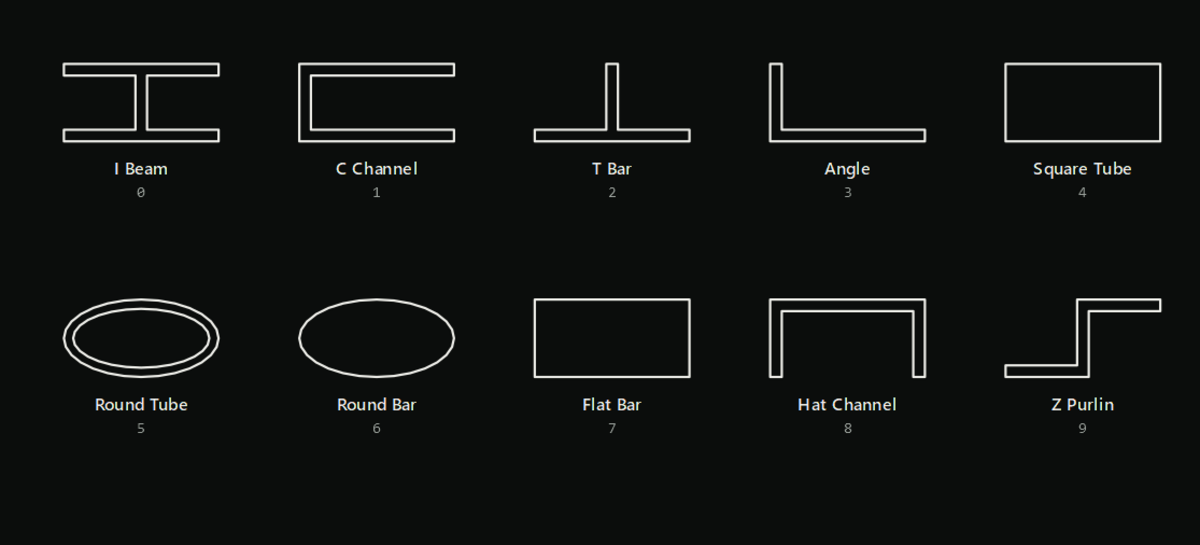
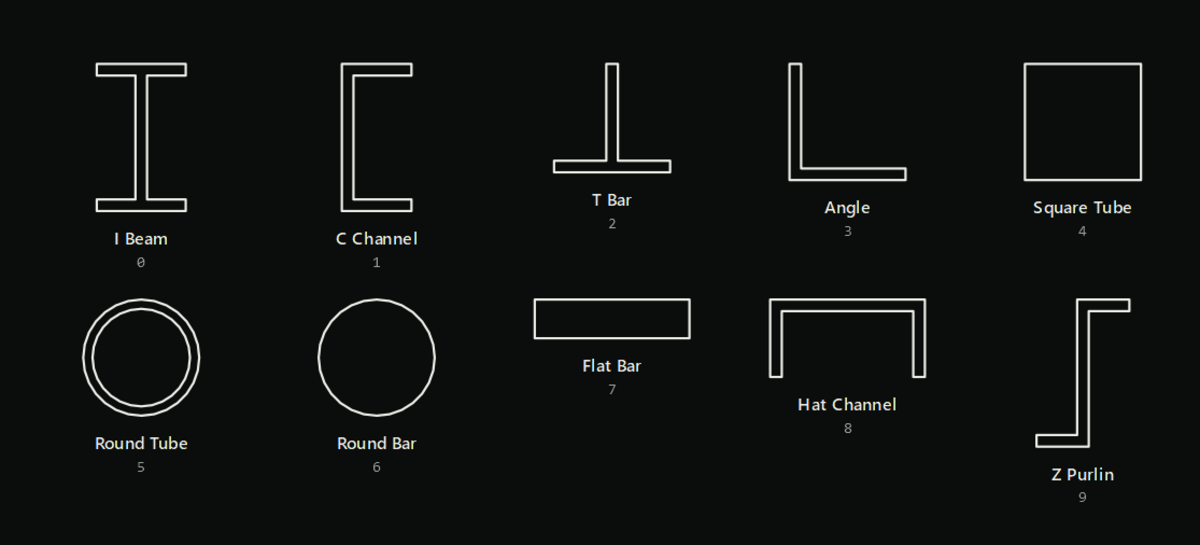
Figure 3: real section proportions; Figure 4: Jordan's traced chart
Jordan, 2026-08-16: 'the I-Beams look weird, the horizontal parts are too long,
most I beams don't look like this. Same thing as the Angle - both sides should
be equal.'

A single W:H for every profile was wrong. Real sections have characteristic
proportions - a W-section is DEEPER than it is wide (W12x26 is 12.2 x 6.5), an
angle is usually EQUAL-LEG (L4x4), a flat bar is wide and thin. Drawing them all
at 2:1 made the I-beam look like a girder nobody rolls and gave the angle
unequal legs for no reason. Each profile now carries its own representative
proportions.

Figure 4 now shows Jordan's vectorised chart rather than my grammar-derived
profiles. His are the real silhouettes; mine were approximations read off a
printed picture, five of them explicitly marked unverified. 130 distinct
profiles carrying roughly 200 codes, because several codes share a silhouette
at different sizes - the catalog pattern in miniature.

chart_outline.svg renders his traced paths in the blueprint convention with no
index numbers, for use as a figure.

Claude-Session: https://claude.ai/code/session_01DKTsLwfwu4BoRFqxwXR7AR

diff --git a/assetbash_handbook_built.html b/assetbash_handbook_built.html
@@ -517,7 +517,7 @@ system built on scaling gets this wrong; a lookup table cannot.</p>
 <figure>
 <span class="figno">Figure 4</span>
[1 lines of base64/hex data omitted]
-<figcaption><b>Figure 4 — Twenty-six moulding profiles from ten composable elements.</b> Every profile on the WM Standard Moulding chart is a stack of fillet, bead, ovolo, cove, scotia, cyma and chamfer — which is not a modelling trick but how they are milled, one shaper knife per element. Elements take a <em>box</em> rather than a radius, so the catalog dimension becomes a mechanical check instead of a claim. Marked <span style='color:#8A5A16'>~</span> are silhouettes read from the printed chart and not yet verified against a profile drawing.</figcaption>
+<figcaption><b>Figure 4 — The WM Standard Moulding chart, vectorised.</b> 130 distinct profiles carrying roughly 200 codes: several codes share a silhouette at different sizes, which is the catalog pattern in miniature — shape and dimensions are separate columns. Every one of these is a stack from a small classical vocabulary (fillet, bead, ovolo, cove, scotia, cyma, quirk, chamfer), which is not a modelling trick but how they are milled: one shaper knife per element. Traced by Jordan from the Wholesale Millwork chart; the layout is preserved so position identifies the section.</figcaption>
 </figure>
 <div class="card">
 <h4>2 · Grammar — composable elements instead of enumerated shapes</h4>
@@ -590,37 +590,37 @@ correct only at exactly 1 × 1.</dd>
 <span class="figno">Figure 3</span>
 <div class="plate">
 <svg viewBox="0 0 714 324" style="max-width:720px;margin:0 auto"
-     font-family="ui-sans-serif,system-ui,sans-serif"><polygon points="38.00,84.00 38.00,77.10 80.55,77.10 80.55,44.90 38.00,44.90 38.00,38.00 130.00,38.00 130.00,44.90 87.45,44.90 87.45,77.10 130.00,77.10 130.00,84.00" fill="none" stroke="#EDEDE8" stroke-width="1.4" stroke-linejoin="round"/>
-<text x="84.0" y="104.0" font-size="10.5" fill="#EDEDE8" text-anchor="middle" font-weight="700">I Beam</text>
-<text x="84.0" y="117.0" font-size="9" fill="#9AA09B" text-anchor="middle" font-family="ui-monospace,Consolas,monospace">0</text>
-<polygon points="178.00,84.00 178.00,38.00 270.00,38.00 270.00,44.90 184.90,44.90 184.90,77.10 270.00,77.10 270.00,84.00" fill="none" stroke="#EDEDE8" stroke-width="1.4" stroke-linejoin="round"/>
-<text x="224.0" y="104.0" font-size="10.5" fill="#EDEDE8" text-anchor="middle" font-weight="700">C Channel</text>
-<text x="224.0" y="117.0" font-size="9" fill="#9AA09B" text-anchor="middle" font-family="ui-monospace,Consolas,monospace">1</text>
-<polygon points="318.00,84.00 318.00,77.10 360.55,77.10 360.55,38.00 367.45,38.00 367.45,77.10 410.00,77.10 410.00,84.00" fill="none" stroke="#EDEDE8" stroke-width="1.4" stroke-linejoin="round"/>
-<text x="364.0" y="104.0" font-size="10.5" fill="#EDEDE8" text-anchor="middle" font-weight="700">T Bar</text>
-<text x="364.0" y="117.0" font-size="9" fill="#9AA09B" text-anchor="middle" font-family="ui-monospace,Consolas,monospace">2</text>
-<polygon points="458.00,84.00 458.00,38.00 464.90,38.00 464.90,77.10 550.00,77.10 550.00,84.00" fill="none" stroke="#EDEDE8" stroke-width="1.4" stroke-linejoin="round"/>
-<text x="504.0" y="104.0" font-size="10.5" fill="#EDEDE8" text-anchor="middle" font-weight="700">Angle</text>
-<text x="504.0" y="117.0" font-size="9" fill="#9AA09B" text-anchor="middle" font-family="ui-monospace,Consolas,monospace">3</text>
-<polygon points="598.00,84.00 598.00,38.00 690.00,38.00 690.00,84.00" fill="none" stroke="#EDEDE8" stroke-width="1.4" stroke-linejoin="round"/>
-<text x="644.0" y="104.0" font-size="10.5" fill="#EDEDE8" text-anchor="middle" font-weight="700">Square Tube</text>
-<text x="644.0" y="117.0" font-size="9" fill="#9AA09B" text-anchor="middle" font-family="ui-monospace,Consolas,monospace">4</text>
-<polygon points="107.00,201.00 106.42,195.88 104.72,191.02 101.98,186.66 98.34,183.02 93.98,180.28 89.12,178.58 84.00,178.00 78.88,178.58 74.02,180.28 69.66,183.02 66.02,186.66 63.28,191.02 61.58,195.88 61.00,201.00 61.58,206.12 63.28,210.98 66.02,215.34 69.66,218.98 74.02,221.72 78.88,223.42 84.00,224.00 89.12,223.42 93.98,221.72 98.34,218.98 101.98,215.34 104.72,210.98 106.42,206.12" fill="none" stroke="#EDEDE8" stroke-width="1.4" stroke-linejoin="round"/>
-<polygon points="101.48,201.00 101.04,204.89 99.75,208.58 97.67,211.90 94.90,214.67 91.58,216.75 87.89,218.04 84.00,218.48 80.11,218.04 76.42,216.75 73.10,214.67 70.33,211.90 68.25,208.58 66.96,204.89 66.52,201.00 66.96,197.11 68.25,193.42 70.33,190.10 73.10,187.33 76.42,185.25 80.11,183.96 84.00,183.52 87.89,183.96 91.58,185.25 94.90,187.33 97.67,190.10 99.75,193.42 101.04,197.11" fill="none" stroke="#EDEDE8" stroke-width="1.4" stroke-linejoin="round"/>
-<text x="84.0" y="244.0" font-size="10.5" fill="#EDEDE8" text-anchor="middle" font-weight="700">Round Tube</text>
-<text x="84.0" y="257.0" font-size="9" fill="#9AA09B" text-anchor="middle" font-family="ui-monospace,Consolas,monospace">5</text>
-<polygon points="247.00,201.00 246.42,195.88 244.72,191.02 241.98,186.66 238.34,183.02 233.98,180.28 229.12,178.58 224.00,178.00 218.88,178.58 214.02,180.28 209.66,183.02 206.02,186.66 203.28,191.02 201.58,195.88 201.00,201.00 201.58,206.12 203.28,210.98 206.02,215.34 209.66,218.98 214.02,221.72 218.88,223.42 224.00,224.00 229.12,223.42 233.98,221.72 238.34,218.98 241.98,215.34 244.72,210.98 246.42,206.12" fill="none" stroke="#EDEDE8" stroke-width="1.4" stroke-linejoin="round"/>
-<text x="224.0" y="244.0" font-size="10.5" fill="#EDEDE8" text-anchor="middle" font-weight="700">Round Bar</text>
-<text x="224.0" y="257.0" font-size="9" fill="#9AA09B" text-anchor="middle" font-family="ui-monospace,Consolas,monospace">6</text>
-<polygon points="318.00,224.00 318.00,178.00 410.00,178.00 410.00,224.00" fill="none" stroke="#EDEDE8" stroke-width="1.4" stroke-linejoin="round"/>
-<text x="364.0" y="244.0" font-size="10.5" fill="#EDEDE8" text-anchor="middle" font-weight="700">Flat Bar</text>
-<text x="364.0" y="257.0" font-size="9" fill="#9AA09B" text-anchor="middle" font-family="ui-monospace,Consolas,monospace">7</text>
+     font-family="ui-sans-serif,system-ui,sans-serif"><polygon points="57.55,125.40 57.55,118.50 80.55,118.50 80.55,44.90 57.55,44.90 57.55,38.00 110.45,38.00 110.45,44.90 87.45,44.90 87.45,118.50 110.45,118.50 110.45,125.40" fill="none" stroke="#EDEDE8" stroke-width="1.4" stroke-linejoin="round"/>
+<text x="84.0" y="145.4" font-size="10.5" fill="#EDEDE8" text-anchor="middle" font-weight="700">I Beam</text>
+<text x="84.0" y="158.4" font-size="9" fill="#9AA09B" text-anchor="middle" font-family="ui-monospace,Consolas,monospace">0</text>
+<polygon points="203.30,125.40 203.30,38.00 244.70,38.00 244.70,44.90 210.20,44.90 210.20,118.50 244.70,118.50 244.70,125.40" fill="none" stroke="#EDEDE8" stroke-width="1.4" stroke-linejoin="round"/>
+<text x="224.0" y="145.4" font-size="10.5" fill="#EDEDE8" text-anchor="middle" font-weight="700">C Channel</text>
+<text x="224.0" y="158.4" font-size="9" fill="#9AA09B" text-anchor="middle" font-family="ui-monospace,Consolas,monospace">1</text>
+<polygon points="329.50,102.40 329.50,95.50 360.55,95.50 360.55,38.00 367.45,38.00 367.45,95.50 398.50,95.50 398.50,102.40" fill="none" stroke="#EDEDE8" stroke-width="1.4" stroke-linejoin="round"/>
+<text x="364.0" y="122.4" font-size="10.5" fill="#EDEDE8" text-anchor="middle" font-weight="700">T Bar</text>
+<text x="364.0" y="135.4" font-size="9" fill="#9AA09B" text-anchor="middle" font-family="ui-monospace,Consolas,monospace">2</text>
+<polygon points="469.50,107.00 469.50,38.00 476.40,38.00 476.40,100.10 538.50,100.10 538.50,107.00" fill="none" stroke="#EDEDE8" stroke-width="1.4" stroke-linejoin="round"/>
+<text x="504.0" y="127.0" font-size="10.5" fill="#EDEDE8" text-anchor="middle" font-weight="700">Angle</text>
+<text x="504.0" y="140.0" font-size="9" fill="#9AA09B" text-anchor="middle" font-family="ui-monospace,Consolas,monospace">3</text>
+<polygon points="609.50,107.00 609.50,38.00 678.50,38.00 678.50,107.00" fill="none" stroke="#EDEDE8" stroke-width="1.4" stroke-linejoin="round"/>
+<text x="644.0" y="127.0" font-size="10.5" fill="#EDEDE8" text-anchor="middle" font-weight="700">Square Tube</text>
+<text x="644.0" y="140.0" font-size="9" fill="#9AA09B" text-anchor="middle" font-family="ui-monospace,Consolas,monospace">4</text>
+<polygon points="118.50,212.50 117.64,204.82 115.08,197.53 110.97,190.99 105.51,185.53 98.97,181.42 91.68,178.86 84.00,178.00 76.32,178.86 69.03,181.42 62.49,185.53 57.03,190.99 52.92,197.53 50.36,204.82 49.50,212.50 50.36,220.18 52.92,227.47 57.03,234.01 62.49,239.47 69.03,243.58 76.32,246.14 84.00,247.00 91.68,246.14 98.97,243.58 105.51,239.47 110.97,234.01 115.08,227.47 117.64,220.18" fill="none" stroke="#EDEDE8" stroke-width="1.4" stroke-linejoin="round"/>
+<polygon points="112.98,212.50 112.25,218.95 110.11,225.07 106.66,230.57 102.07,235.16 96.57,238.61 90.45,240.75 84.00,241.48 77.55,240.75 71.43,238.61 65.93,235.16 61.34,230.57 57.89,225.07 55.75,218.95 55.02,212.50 55.75,206.05 57.89,199.93 61.34,194.43 65.93,189.84 71.43,186.39 77.55,184.25 84.00,183.52 90.45,184.25 96.57,186.39 102.07,189.84 106.66,194.43 110.11,199.93 112.25,206.05" fill="none" stroke="#EDEDE8" stroke-width="1.4" stroke-linejoin="round"/>
+<text x="84.0" y="267.0" font-size="10.5" fill="#EDEDE8" text-anchor="middle" font-weight="700">Round Tube</text>
+<text x="84.0" y="280.0" font-size="9" fill="#9AA09B" text-anchor="middle" font-family="ui-monospace,Consolas,monospace">5</text>
+<polygon points="258.50,212.50 257.64,204.82 255.08,197.53 250.97,190.99 245.51,185.53 238.97,181.42 231.68,178.86 224.00,178.00 216.32,178.86 209.03,181.42 202.49,185.53 197.03,190.99 192.92,197.53 190.36,204.82 189.50,212.50 190.36,220.18 192.92,227.47 197.03,234.01 202.49,239.47 209.03,243.58 216.32,246.14 224.00,247.00 231.68,246.14 238.97,243.58 245.51,239.47 250.97,234.01 255.08,227.47 257.64,220.18" fill="none" stroke="#EDEDE8" stroke-width="1.4" stroke-linejoin="round"/>
+<text x="224.0" y="267.0" font-size="10.5" fill="#EDEDE8" text-anchor="middle" font-weight="700">Round Bar</text>
+<text x="224.0" y="280.0" font-size="9" fill="#9AA09B" text-anchor="middle" font-family="ui-monospace,Consolas,monospace">6</text>
+<polygon points="318.00,201.00 318.00,178.00 410.00,178.00 410.00,201.00" fill="none" stroke="#EDEDE8" stroke-width="1.4" stroke-linejoin="round"/>
+<text x="364.0" y="221.0" font-size="10.5" fill="#EDEDE8" text-anchor="middle" font-weight="700">Flat Bar</text>
+<text x="364.0" y="234.0" font-size="9" fill="#9AA09B" text-anchor="middle" font-family="ui-monospace,Consolas,monospace">7</text>
 <polygon points="458.00,224.00 458.00,178.00 550.00,178.00 550.00,224.00 543.10,224.00 543.10,184.90 464.90,184.90 464.90,224.00" fill="none" stroke="#EDEDE8" stroke-width="1.4" stroke-linejoin="round"/>
 <text x="504.0" y="244.0" font-size="10.5" fill="#EDEDE8" text-anchor="middle" font-weight="700">Hat Channel</text>
 <text x="504.0" y="257.0" font-size="9" fill="#9AA09B" text-anchor="middle" font-family="ui-monospace,Consolas,monospace">8</text>
-<polygon points="598.00,224.00 598.00,217.10 640.55,217.10 640.55,178.00 690.00,178.00 690.00,184.90 647.45,184.90 647.45,224.00" fill="none" stroke="#EDEDE8" stroke-width="1.4" stroke-linejoin="round"/>
-<text x="644.0" y="244.0" font-size="10.5" fill="#EDEDE8" text-anchor="middle" font-weight="700">Z Purlin</text>
-<text x="644.0" y="257.0" font-size="9" fill="#9AA09B" text-anchor="middle" font-family="ui-monospace,Consolas,monospace">9</text></svg>
+<polygon points="616.40,265.40 616.40,258.50 640.55,258.50 640.55,178.00 671.60,178.00 671.60,184.90 647.45,184.90 647.45,265.40" fill="none" stroke="#EDEDE8" stroke-width="1.4" stroke-linejoin="round"/>
+<text x="644.0" y="285.4" font-size="10.5" fill="#EDEDE8" text-anchor="middle" font-weight="700">Z Purlin</text>
+<text x="644.0" y="298.4" font-size="9" fill="#9AA09B" text-anchor="middle" font-family="ui-monospace,Consolas,monospace">9</text></svg>
 </div>
 <figcaption><b>Figure 3 — Ten structural profiles from one Detail wrangle.</b>
 Menu indices 0–4 are the shipped set, reproduced point-for-point across 135

diff --git a/build_handbook.py b/build_handbook.py
@@ -149,38 +149,69 @@ higher.</figcaption>
 
 # ── Figure: metal extrusion profiles, computed ───────────────────────────────
 def fig_extrusions():
-    W, H, tw, tf, wall, segs = 2.0, 1.0, 0.15, 0.15, 0.12, 28
-    xc, hw = W / 2, tw / 2
+    # ⚠ A SINGLE W:H FOR EVERY PROFILE IS WRONG. Jordan, 2026-08-16: "the
+    # I-Beams look weird, the horizontal parts are too long, most I beams don't
+    # look like this. Same thing as the Angle - both sides should be equal."
+    # Real sections have characteristic proportions: a W-section is DEEPER than
+    # it is wide (W12x26 is 12.2 x 6.5), an angle is usually EQUAL-LEG (L4x4),
+    # a flat bar is wide and thin. Drawing them all at 2:1 made the I-beam look
+    # like a girder nobody rolls and the angle unequal for no reason.
+    tw, tf, wall, segs = 0.15, 0.15, 0.12, 28
+    PROP = {                      # width, height — representative, not arbitrary
+        "I Beam":      (1.15, 1.9),   # deeper than wide, like a W-section
+        "C Channel":   (0.9,  1.9),   # tall and narrow
+        "T Bar":       (1.5,  1.4),
+        "Angle":       (1.5,  1.5),   # EQUAL LEG
+        "Square Tube": (1.5,  1.5),
+        "Round Tube":  (1.5,  1.5),
+        "Round Bar":   (1.5,  1.5),
+        "Flat Bar":    (2.0,  0.5),   # wide and thin
+        "Hat Channel": (2.0,  1.0),
+        "Z Purlin":    (1.2,  1.9),
+    }
 
     def ring(cx, cz, rx, rz, n, rev=False):
         return [(cx + math.cos(2*math.pi*(n-i if rev else i)/n) * rx,
                  cz + math.sin(2*math.pi*(n-i if rev else i)/n) * rz)
                 for i in range(n)]
 
-    P = {
-        "I Beam": [[(0,0),(0,tf),(xc-hw,tf),(xc-hw,H-tf),(0,H-tf),(0,H),
-                    (W,H),(W,H-tf),(xc+hw,H-tf),(xc+hw,tf),(W,tf),(W,0)]],
-        "C Channel": [[(0,0),(0,H),(W,H),(W,H-tf),(tw,H-tf),(tw,tf),(W,tf),(W,0)]],
-        "T Bar": [[(0,0),(0,tf),(xc-hw,tf),(xc-hw,H),(xc+hw,H),(xc+hw,tf),(W,tf),(W,0)]],
-        "Angle": [[(0,0),(0,H),(tw,H),(tw,tf),(W,tf),(W,0)]],
-        "Square Tube": [[(0,0),(0,H),(W,H),(W,0)]],
+    def geom(name):
+        W, H = PROP[name]
+        xc, hw = W / 2, tw / 2
+        if name == "I Beam":
+            return [[(0,0),(0,tf),(xc-hw,tf),(xc-hw,H-tf),(0,H-tf),(0,H),
+                     (W,H),(W,H-tf),(xc+hw,H-tf),(xc+hw,tf),(W,tf),(W,0)]]
+        if name == "C Channel":
+            return [[(0,0),(0,H),(W,H),(W,H-tf),(tw,H-tf),(tw,tf),(W,tf),(W,0)]]
+        if name == "T Bar":
+            return [[(0,0),(0,tf),(xc-hw,tf),(xc-hw,H),(xc+hw,H),(xc+hw,tf),(W,tf),(W,0)]]
+        if name == "Angle":
+            return [[(0,0),(0,H),(tw,H),(tw,tf),(W,tf),(W,0)]]
+        if name in ("Square Tube", "Flat Bar"):
+            return [[(0,0),(0,H),(W,H),(W,0)]]
+        if name == "Round Tube":
+            return [ring(xc,H/2,H/2,H/2,segs), ring(xc,H/2,H/2-wall,H/2-wall,segs,True)]
+        if name == "Round Bar":
+            return [ring(xc,H/2,H/2,H/2,segs)]
+        if name == "Hat Channel":
+            return [[(0,0),(0,H),(W,H),(W,0),(W-tf,0),(W-tf,H-tw),(tf,H-tw),(tf,0)]]
+        return [[(0,0),(0,tf),(xc-hw,tf),(xc-hw,H),(W,H),(W,H-tf),(xc+hw,H-tf),(xc+hw,0)]]
+
+    P = {n: geom(n) for n in PROP}
+    _unused = {
         # ⚠ drawn CIRCULAR here (radius = H/2) rather than at the figure's
         # W:H of 2:1. The VEX maps width and height to the two radii
         # independently, so a Round Tube at W != H is an ELLIPSE — faithful to
         # the tool, but it raises a real question: should a round section take
         # width as a diameter and ignore height? Flagged, not silently changed.
-        "Round Tube": [ring(xc,H/2,H/2,H/2,segs), ring(xc,H/2,H/2-wall,H/2-wall,segs,True)],
-        "Round Bar": [ring(xc,H/2,H/2,H/2,segs)],
-        "Flat Bar": [[(0,0),(0,H),(W,H),(W,0)]],
-        "Hat Channel": [[(0,0),(0,H),(W,H),(W,0),(W-tf,0),(W-tf,H-tw),(tf,H-tw),(tf,0)]],
-        "Z Purlin": [[(0,0),(0,tf),(xc-hw,tf),(xc-hw,H),(W,H),(W,H-tf),(xc+hw,H-tf),(xc+hw,0)]],
     }
     cell, cols, S = 140, 5, 46
     rows = (len(P) + cols - 1) // cols
     out = []
     for i, (name, loops) in enumerate(P.items()):
-        ox = 14 + (i % cols) * cell + (cell - W * S) / 2
-        oy = 24 + (i // cols) * cell + H * S + 14
+        pw, ph = PROP[name]
+        ox = 14 + (i % cols) * cell + (cell - pw * S) / 2
+        oy = 24 + (i // cols) * cell + ph * S + 14
         for j, loop in enumerate(loops):
             pts = " ".join("%.2f,%.2f" % (ox + x*S, oy - y*S) for x, y in loop)
             # BLUEPRINT CONVENTION (Jordan, 2026-08-16): white outlines on
@@ -233,14 +264,15 @@ def main():
         ('<dt>Key</dt><dd><code>w = cot', fig_skeleton()),
         ('<div class="card">\n<h4>2 · Grammar', fig_embed(
             BASE + "/moulding/wm_profile_sheet.svg", 4,
-            "<b>Figure 4 — Twenty-six moulding profiles from ten composable "
-            "elements.</b> Every profile on the WM Standard Moulding chart is a "
-            "stack of fillet, bead, ovolo, cove, scotia, cyma and chamfer — which "
-            "is not a modelling trick but how they are milled, one shaper knife "
-            "per element. Elements take a <em>box</em> rather than a radius, so "
-            "the catalog dimension becomes a mechanical check instead of a claim. "
-            "Marked <span style='color:#8A5A16'>~</span> are silhouettes read from "
-            "the printed chart and not yet verified against a profile drawing.")),
+            "<b>Figure 4 — The WM Standard Moulding chart, vectorised.</b> 130 "
+            "distinct profiles carrying roughly 200 codes: several codes share a "
+            "silhouette at different sizes, which is the catalog pattern in "
+            "miniature — shape and dimensions are separate columns. Every one of "
+            "these is a stack from a small classical vocabulary (fillet, bead, "
+            "ovolo, cove, scotia, cyma, quirk, chamfer), which is not a modelling "
+            "trick but how they are milled: one shaper knife per element. Traced "
+            "by Jordan from the Wholesale Millwork chart; the layout is preserved "
+            "so position identifies the section.")),
         ('<div class="card">\n<h4>3 · Classification', fig_embed(
             BASE + "/footprint_sheet.svg", 5,
             "<b>Figure 5 — Footprint classification for arbitrary polygons.</b> "
